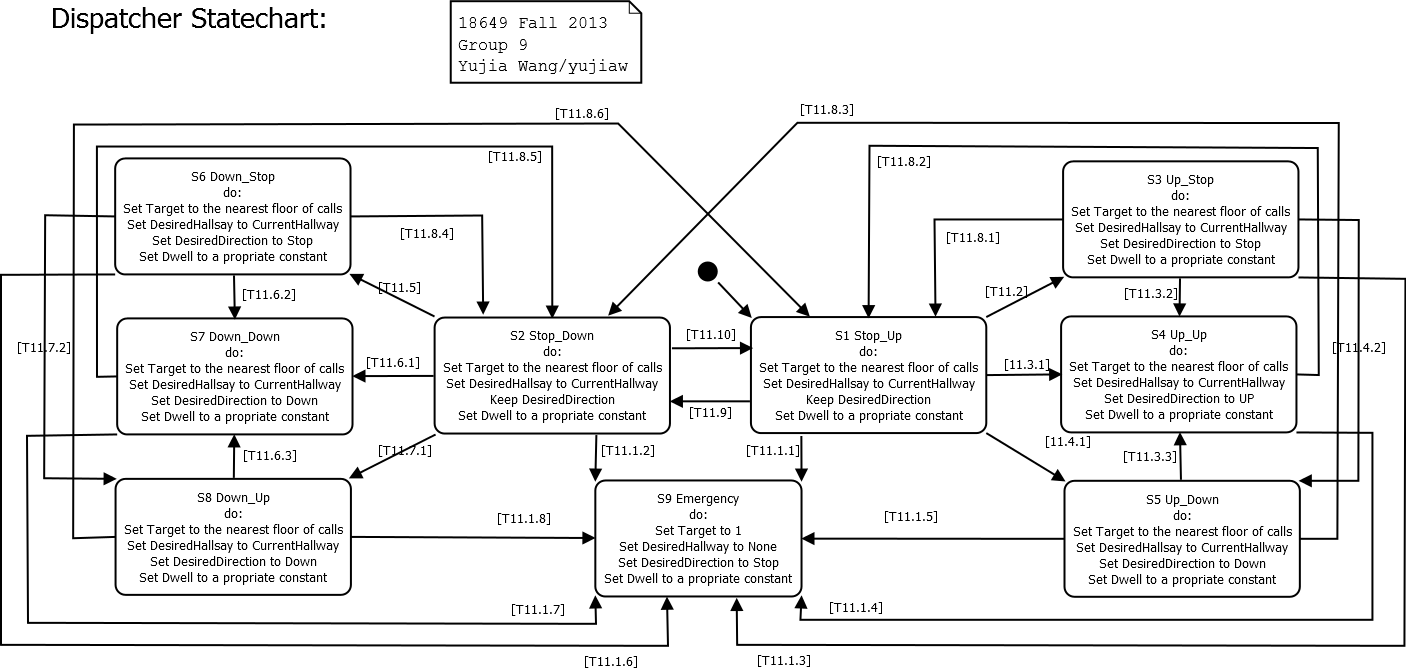
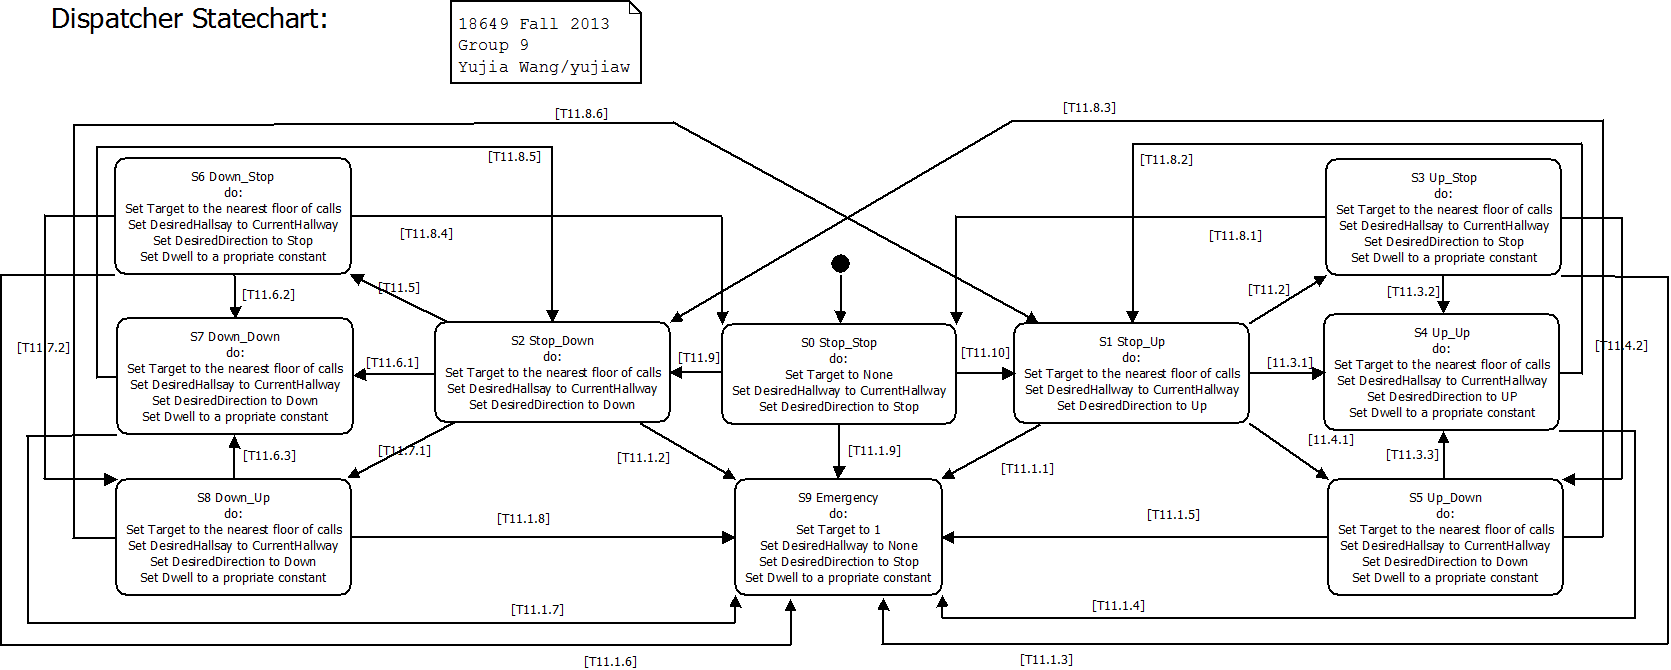
add state Stop_Stop to Dispatcher state chart

diff --git a/reqs/requirements2.html b/reqs/requirements2.html
@@ -1242,6 +1242,7 @@
 
 
 
+
             </span><span style="color: rgb(0, 0, 0); font-family: Times;
               font-size: medium; font-style: normal; font-variant:
               normal; font-weight: normal; letter-spacing: normal;
@@ -2079,10 +2080,12 @@
 
 
 
+
     SlowSpeed AND DriveSpeed.s &lt;=&nbsp; FastSpeed, then Drive(s,d)
     shall be set to [Slow, d]<br>
     6.11 If mDesiredFloor.f = g AND CommitPoint[g] = Reached AND
     CurrentFloor = g&nbsp; AND<b> </b>DriveSpeed.s<b>&nbsp; </b>&gt;&nbsp;
+
 
 
 
@@ -3832,6 +3835,7 @@
 
 
 
+
             <span style="color: rgb(0, 0, 0); font-family: Times;
               font-size: medium; font-style: normal; font-variant:
               normal; font-weight: normal; letter-spacing: normal;
@@ -4843,8 +4847,8 @@
       &nbsp;&nbsp;&nbsp; 11.22.3 mDesiredFloor.d shall be set to Stop.</span><br>
     <h3>TIME-TRIGGERED STATECHART:</h3>
     &nbsp; <img alt=""
-      src="Dispatcher_statecharts_group9_yujiaw_new.png" height="668"
-      width="1406"><br>
+      src="Dispatcher_statecharts_group9_yujiaw_new.png" height="670"
+      width="1671"><br>
     <br>
     <table cellpadding="2" cellspacing="2" border="1">
       <tbody>
@@ -4876,6 +4880,7 @@
 
 
 
+
             &#8592; UP AND&nbsp; mCarCall[f, b] &#8592; true <br>
             AND f &gt;= CurrentFloor AND all other mCarCall and
             mHallCall &#8592; false <br>
@@ -4892,6 +4897,7 @@
               none; white-space: normal; widows: auto; word-spacing:
               0px; -webkit-text-stroke-width: 0px; display: inline
               !important; float: none;">MaxCarCapacity AND </span>CurrentDirection
+
 
 
 
@@ -4915,6 +4921,7 @@
               none; white-space: normal; widows: auto; word-spacing:
               0px; -webkit-text-stroke-width: 0px; display: inline
               !important; float: none;">MaxCarCapacity AND </span>CurrentDirection
+
 
 
 
@@ -4947,6 +4954,7 @@
 
 
 
+
             &#8592; DOWN AND mCarCall[f, b] &#8592; true AND f &lt;= CurrentFloor
             AND all other mCarCall and mHallCall &#8592; false</td>
         </tr>
@@ -4961,6 +4969,7 @@
               none; white-space: normal; widows: auto; word-spacing:
               0px; -webkit-text-stroke-width: 0px; display: inline
               !important; float: none;">MaxCarCapacity AND </span>CurrentDIrection
+
 
 
 
@@ -4983,6 +4992,7 @@
               none; white-space: normal; widows: auto; word-spacing:
               0px; -webkit-text-stroke-width: 0px; display: inline
               !important; float: none;">MaxCarCapacity AND </span>CurrentDirection
+
 
 
 
